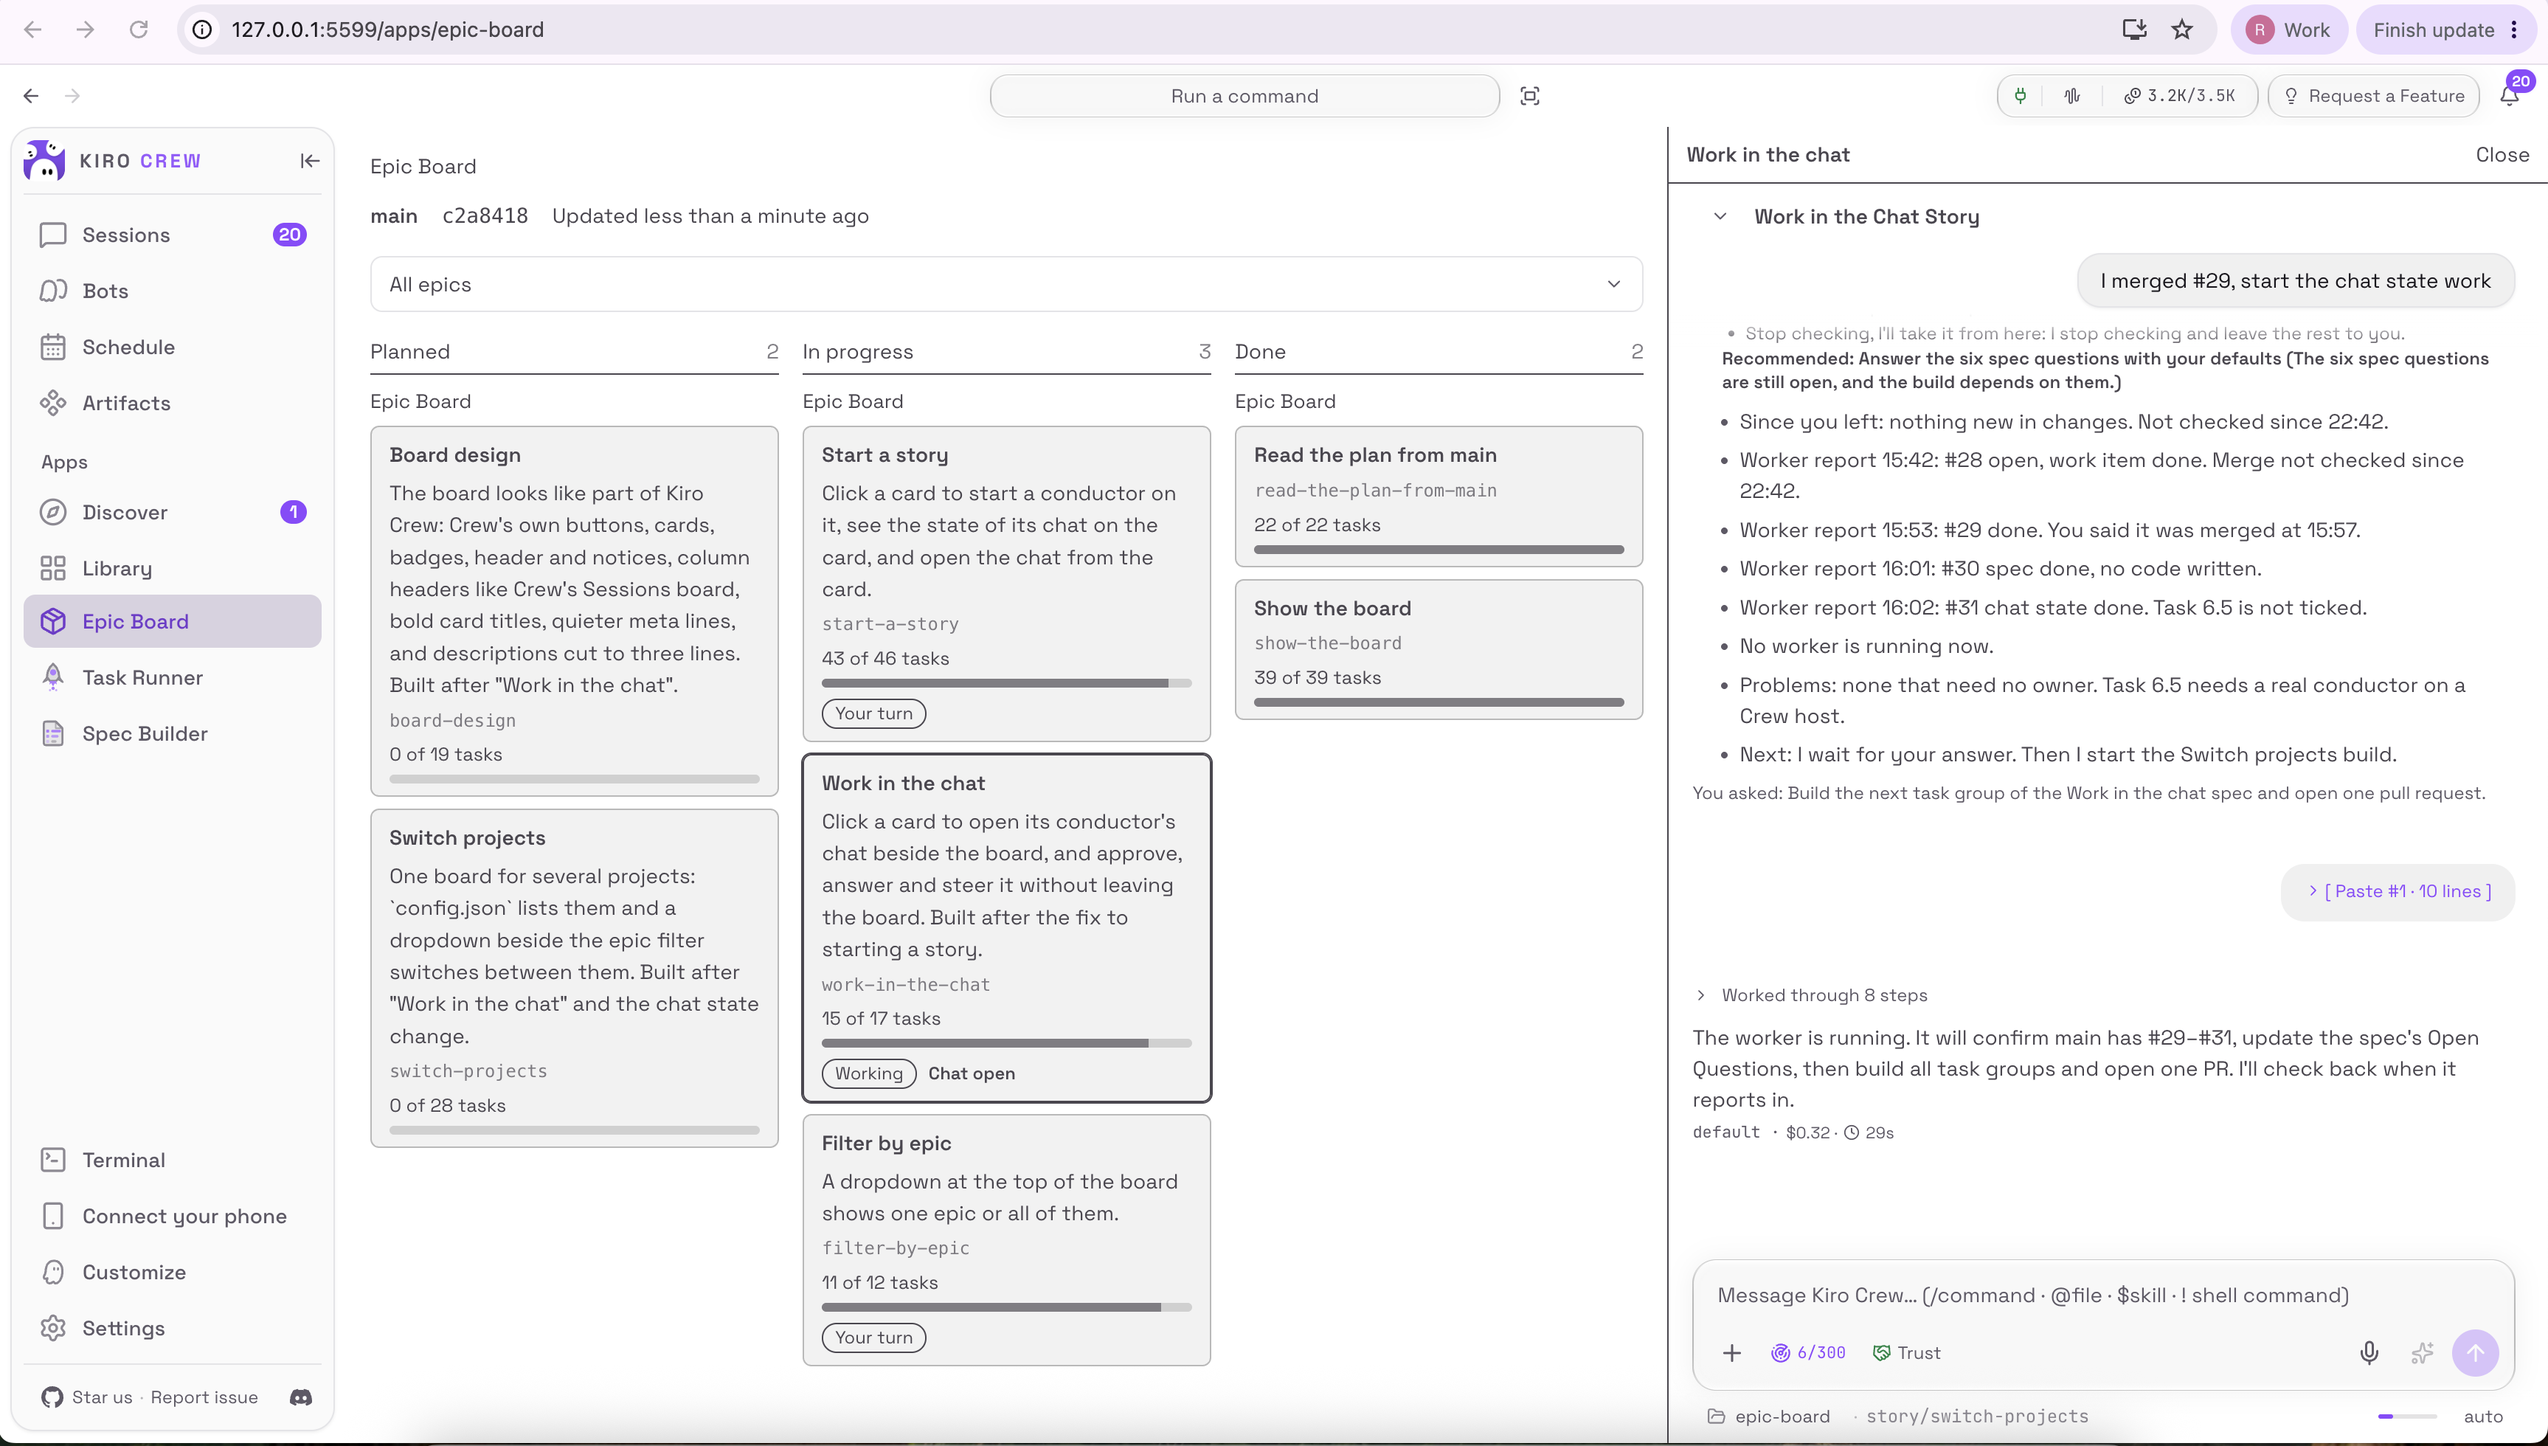
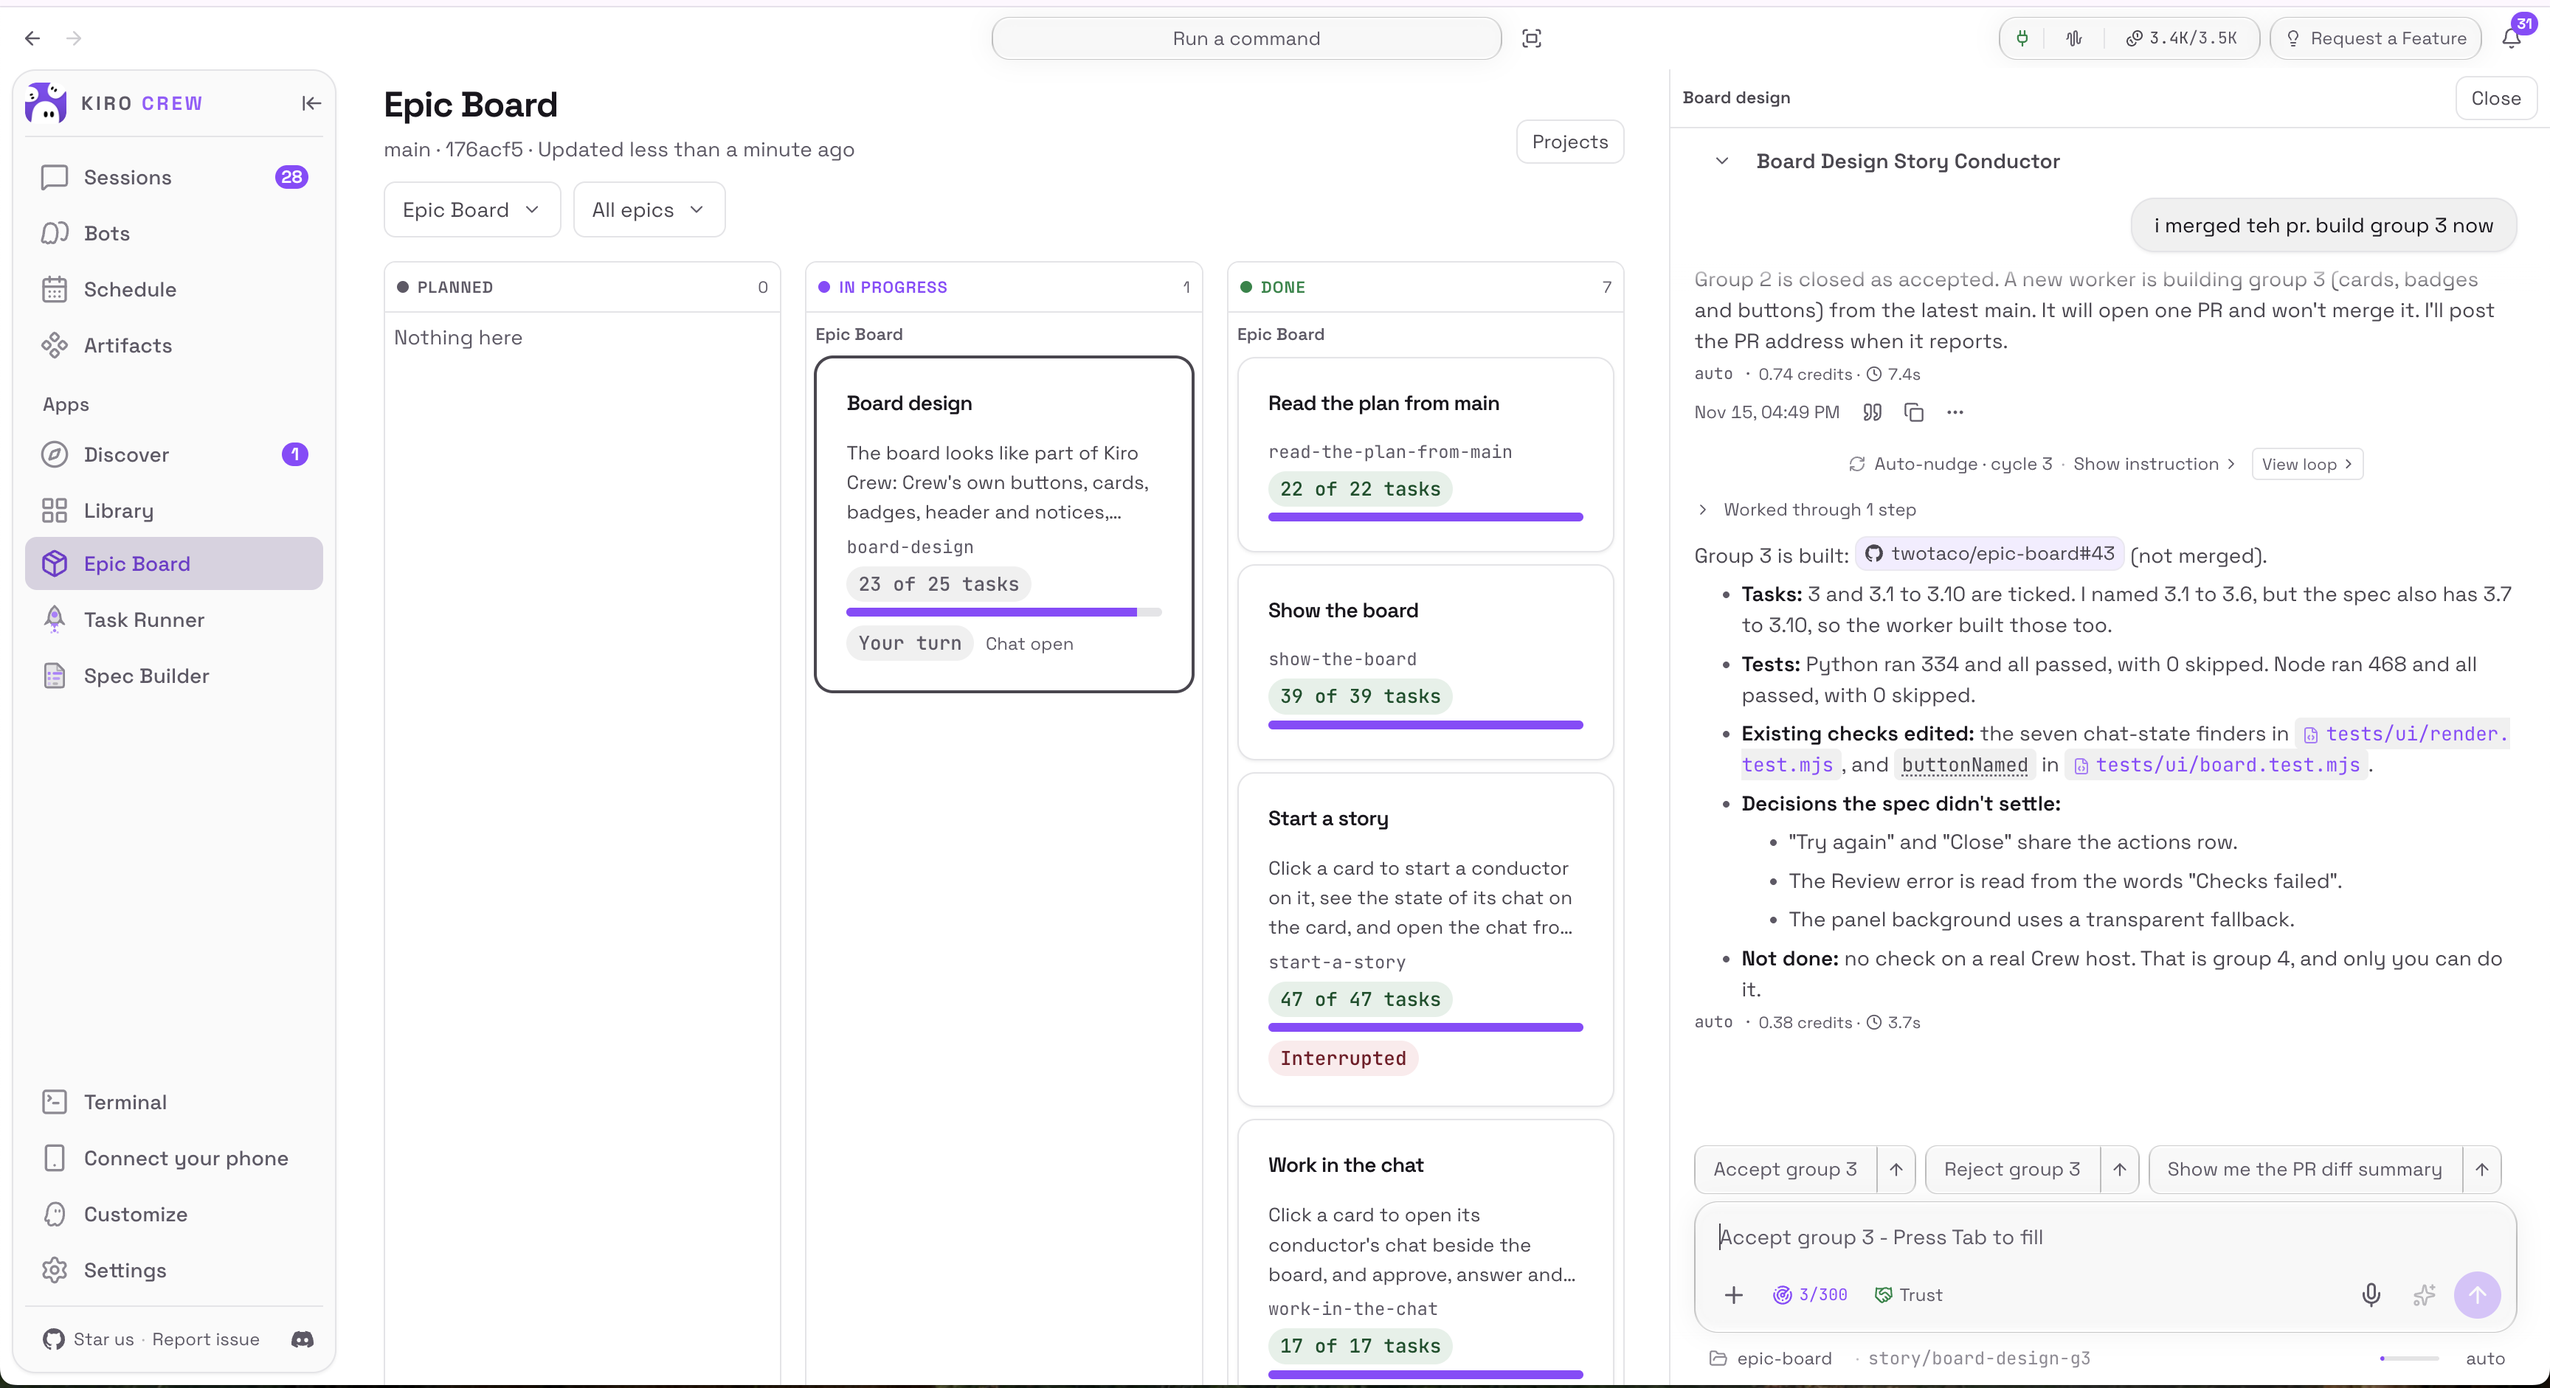
Board design: host check, owner's answers, config line wording, new screenshot

diff --git a/.kiro/specs/board-design/tasks.md b/.kiro/specs/board-design/tasks.md
@@ -116,8 +116,8 @@ The projects parts (Requirement 6) are written against the code that "Switch pro
     - Run `python3 -m unittest discover -s tests -t .` and `node --test tests/ui/*.test.mjs` and report the counts run, passed and skipped for each
     - _Requirements: 1.1, 1.2, 1.3, 1.4, 1.6, 3.1, 3.2, 3.3, 3.4, 3.5, 3.6, 3.7, 3.8, 3.9, 6.2, 6.3, 6.4, 6.5, 6.8, 6.9, 6.10, 6.11_
 
-- [ ] 4. Check it on a Crew host
-  - [ ] 4.1 Install the app in Kiro Crew and check the look (done by you in the app)
+- [x] 4. Check it on a Crew host
+  - [x] 4.1 Install the app in Kiro Crew and check the look (done by you in the app)
     - Use Crew 0.12.2 or later and the throwaway project of the start spec's task 4.2, with a plan that has cards in all three columns, a long description, a story with a chat in each of the four states, an empty column and a story with no spec
     - Check the components: the header, the cards, the badges, the buttons and the empty and error states look like Crew's own; open the browser's inspector and confirm they are Crew's elements (`card-glow`, `animate-rise` and the like) and not the page's fallbacks
     - Check the column headers beside Crew's Sessions board: dot, capitals, count, bar, box and radius match; the dot colours read well in both themes (design, Open Question 3)
@@ -134,6 +134,7 @@ The projects parts (Requirement 6) are written against the code that "Switch pro
     - Check the fallbacks: in the console, delete one component (and `Select`) from `window.__kirocrew_modules['@kirocrew/ui']` before the page loads (each in turn, and the whole module), and confirm that part is drawn as it was and the rest of the page still works
     - Check the open questions of the design that only the host can answer, and write the owner's answers into the design
     - _Requirements: 1.1, 1.2, 1.3, 2.1, 2.2, 2.3, 2.5, 3.1, 3.2, 3.3, 3.4, 3.5, 3.6, 3.9, 4.1, 4.2, 4.3, 4.4, 5.1, 5.3, 5.5, 6.1, 6.2, 6.3, 6.4, 6.5, 6.6, 6.7, 6.9, 6.10, 6.11_
+    - _Checked on the Crew host on 15 November 2026, on epic-board itself, beside Crew's Sessions board: the header, the column headers, the cards, the badges, the buttons, both dropdowns in one row, the Projects panel and the chat panel's frame look like Crew's own, in light and dark. The owner's answers to the open questions are in the design. Not checked on the host, covered by tests: the fallbacks with components deleted in the console, the accessibility tree, the header's alignment at 700, 800 and 1,200 pixels, the load and save error notices, and the Checks failed and Stalled badges. Found on the host: the Projects view's config line still used the page's old words; it now uses the setup spec's (set-up-projects, Requirement 4, criterion 3)._
 
 ## Notes
 

diff --git a/.kiro/specs/board-design/design.md b/.kiro/specs/board-design/design.md
@@ -249,3 +249,15 @@ For the owner, with the choice made in this spec for each.
 9. **The notice look.** Crew 0.12.2 exports no neutral notice, so the neutral tone is the page's own: `--border` and `--bg-elevated`, in the geometry of `ErrorNotice`. The error tone uses `--danger` for the border, where `ErrorNotice` has `border-danger/40`, because the style sheet may not use `color-mix()` or an alpha of its own. The border may read stronger than Crew's. To be seen on the host.
 10. **The name field is native.** `Input` is exported by `@kirocrew/ui` and would make the Projects view's name field look like Crew's own fields. The request names `Btn` and does not name `Input`, so this spec leaves the field native (Requirement 6, criterion 3). Using `Input` would add it as an eighth Kit_Component with a fallback.
 11. **The panel's colours.** Crew has no panel component with a title and a close button, so the head is built from its side panel's strip and the `PanelSectionHeader` label. The owner has decided both choices. The title leaves out the label's muted colour and takes the host's text colour. The background is `--bg`, the colour of Crew's side panel, because the chat column's own background was not found in the sources read (the column takes the shell's). The `--bg` choice is checked on the host next to a Crew chat in task 4.1; if the chat column differs, the owner decides again.
+
+### The owner's answers, after the host check (15 November 2026)
+
+1. The card's inset: keep `Card`'s own.
+2. `CardTitle` as an `h3` with `role="presentation"`: keep.
+3. The dot colours: they read well; keep.
+4. The state badges: keep. On a Done card the state is noise; a later change to the start spec shows it there only for Needs you and Working.
+6. The page gutter: the header's left edge lines up with the columns; keep.
+7. The column and the card share a background: the cards stand apart; keep.
+9. The notice look: the neutral tone reads well; keep.
+10. The name field: on the host the native field looks like plain text, not like a field. Use Crew's `Input`, in a later change.
+11. The panel's colours: the head, the edge and the background match Crew's side panel; keep.

diff --git a/docs/epics/epic-board.md b/docs/epics/epic-board.md
@@ -22,6 +22,6 @@ It matters now because the plan already lives in files on main, and nothing show
 - [Start a story](../../.kiro/specs/start-a-story/) — done. Click a card to start a conductor on it, see the state of its chat on the card, and open the chat from the card.
 - [Work in the chat](../../.kiro/specs/work-in-the-chat/) — done. Click a card to open its conductor's chat beside the board, and approve, answer and steer it without leaving the board. Built after the fix to starting a story.
 - [Filter by epic](../../.kiro/specs/filter-by-epic/) — done. A dropdown at the top of the board shows one epic or all of them.
-- [Board design](../../.kiro/specs/board-design/) — in progress. The board looks like part of Kiro Crew: Crew's own buttons, cards, badges, header and notices, column headers like Crew's Sessions board, bold card titles, quieter meta lines, and descriptions cut to three lines. Built after "Work in the chat".
+- [Board design](../../.kiro/specs/board-design/) — done. The board looks like part of Kiro Crew: Crew's own buttons, cards, badges, header and notices, column headers like Crew's Sessions board, bold card titles, quieter meta lines, and descriptions cut to three lines. Built after "Work in the chat".
 - [Switch projects](../../.kiro/specs/switch-projects/) — done. One board for several projects: `config.json` lists them and a dropdown beside the epic filter switches between them. Built after "Work in the chat" and the chat state change.
 - [Set up projects](../../.kiro/specs/set-up-projects/) — done. A Projects view lets the person pick which Crew folders the board shows, without editing `config.json` by hand. Built after "Switch projects".
